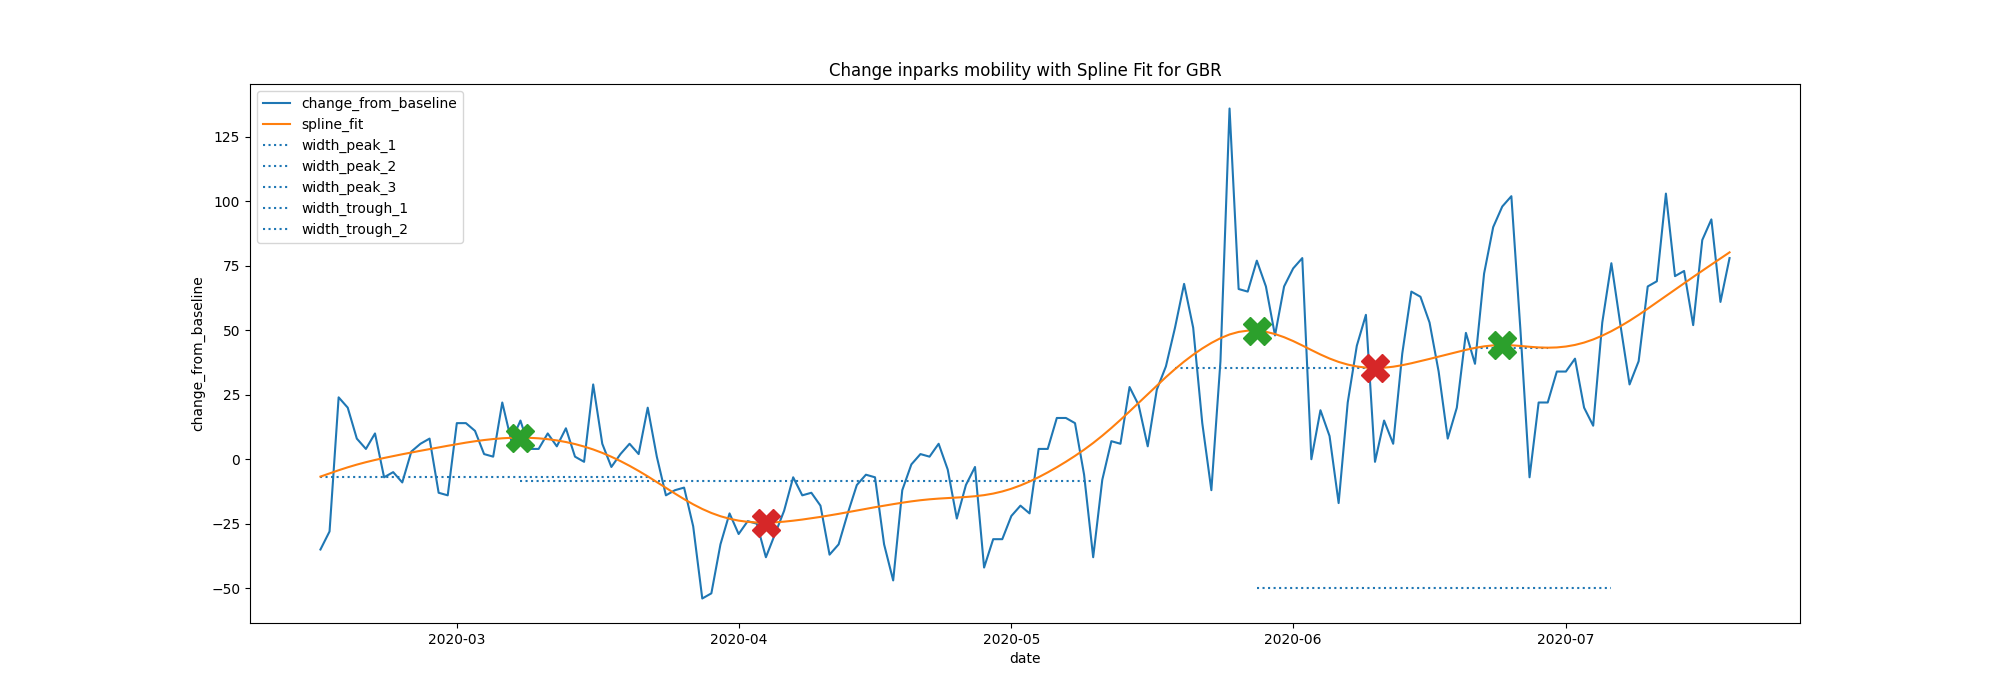
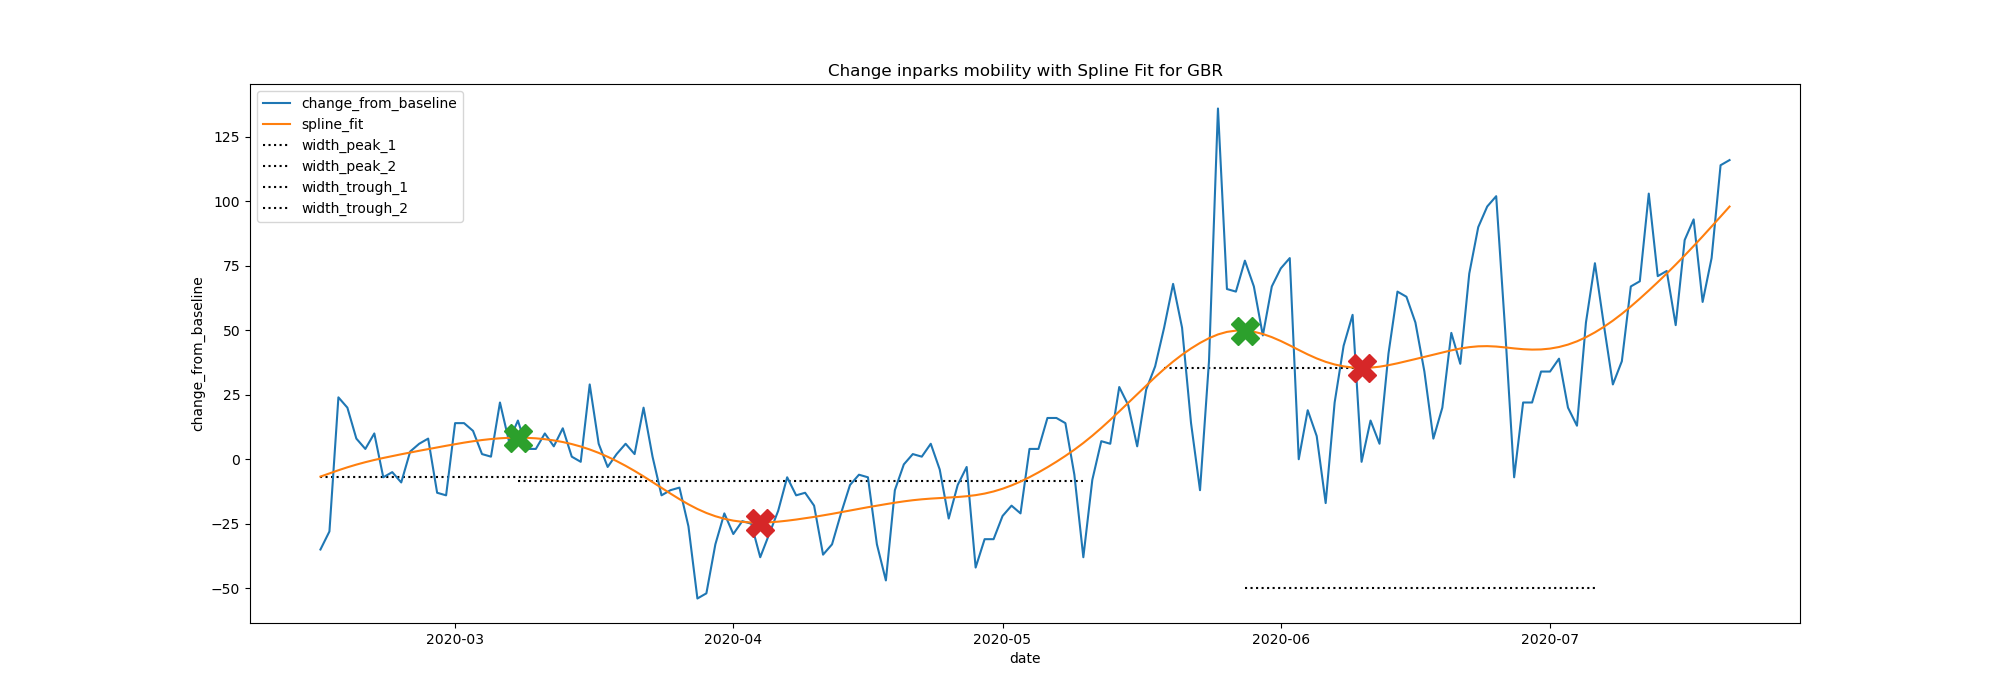
fixed some bugs in generate_table.py

diff --git a/generate_table.py b/generate_table.py
@@ -14,7 +14,6 @@ from scipy.signal import find_peaks
 from scipy.signal import peak_widths
 from scipy.signal import peak_prominences
 
-import statsmodels.api as sm
 from scipy.ndimage.interpolation import shift
 import statsmodels.api as sm
 warnings.filterwarnings('ignore')
@@ -23,7 +22,7 @@ warnings.filterwarnings('ignore')
 INTITALISE SCRIPT PARAMETERS
 '''
 
-SAVE_PLOTS=False
+SAVE_PLOTS=True
 DISTANCE = 21  # Distance between peaks
 THRESHOLD = 25  # Threshold for duration calculation
 SMOOTH = 0.001  # Smoothing parameter for the spline fit
@@ -31,6 +30,7 @@ MIN_PERIOD = 14  # Minimum number of days above threshold
 ROLLING_WINDOW = 3  # Window size for Moving Average for epidemiological data
 OPTIMAL_LAG_TIME = 14 # +/- this time for optimal lag calculation
 PATH = './charts/table_figures/' # Path to save master table and corresponding plots
+PROMINENCE_THRESHOLD = 5
 
 conn = psycopg2.connect(
     host='covid19db.org',
@@ -50,7 +50,7 @@ raw_epidemiology = raw_epidemiology[raw_epidemiology['adm_area_1'].isnull()].sor
 raw_epidemiology = raw_epidemiology[~raw_epidemiology['country'].isin(exclude)].reset_index(drop=True)
 raw_epidemiology = raw_epidemiology[['countrycode','country','date','confirmed']]
 ### Check no conflicting values for each country and date
-assert not raw_epidemiology[['countrycode','country','date']].duplicated().any()
+assert not raw_epidemiology[['countrycode','date']].duplicated().any()
 
 # GET MOBILITY TABLE
 source='GOOGLE_MOBILITY'
@@ -61,7 +61,7 @@ raw_mobility = pd.read_sql(sql_command, conn, params={'source': source})
 raw_mobility = raw_mobility[['countrycode','country','date']+mobilities]
 raw_mobility = raw_mobility.sort_values(by=['countrycode','date']).reset_index(drop=True)
 ### Check no conflicting values for each country and date
-assert not raw_mobility[['countrycode','country','date']].duplicated().any()
+assert not raw_mobility[['countrycode','date']].duplicated().any()
 
 # GET GOVERNMENT RESPONSE TABLE
 flags=['stringency_index','c1_school_closing','c2_workplace_closing','c3_cancel_public_events',
@@ -72,8 +72,11 @@ sql_command = """SELECT * FROM government_response"""
 raw_government_response = pd.read_sql(sql_command, conn)
 raw_government_response = raw_government_response.sort_values(by=['countrycode','date']).reset_index(drop=True)
 raw_government_response = raw_government_response[['countrycode','country','date']+flags]
+raw_government_response = raw_government_response.sort_values(by=['country','date'])\
+    .drop_duplicates(subset=['countrycode','date'])#.dropna(subset=['stringency_index'])
+raw_government_response = raw_government_response.sort_values(by=['countrycode','date'])
 ### Check no conflicting values for each country and date
-assert not raw_government_response[['countrycode','country','date']].duplicated().any()
+assert not raw_government_response[['countrycode','date']].duplicated().any()
 
 
 '''
@@ -249,7 +252,7 @@ for country in tqdm(countries, desc = 'Processing Epidemiological Data'):
     ys = csaps(x, y, x, smooth = SMOOTH)
 
     ###Finding peaks
-    peak_locations = find_peaks(ys,distance=DISTANCE)[0]
+    peak_locations = find_peaks(ys,distance=DISTANCE, prominence=PROMINENCE_THRESHOLD)[0]
     peak_mask = np.zeros(len(data['date']))
     for i in range(len(peak_locations)):
         peak_mask[peak_locations[i]] = i + 1
@@ -373,8 +376,8 @@ for country in tqdm(countries, desc = 'Processing Mobility Data'):
         y = data[mobility_type].values
         ys = csaps(x, y, x, smooth=SMOOTH)
 
-        peak_locations = find_peaks(ys,distance=DISTANCE)[0]
-        trough_locations = find_peaks(-ys,distance=DISTANCE)[0]
+        peak_locations = find_peaks(ys,distance=DISTANCE, prominence=PROMINENCE_THRESHOLD)[0]
+        trough_locations = find_peaks(-ys,distance=DISTANCE, prominence=PROMINENCE_THRESHOLD)[0]
         peak_mask = np.zeros(len(data['date']))
         trough_mask = np.zeros(len(data['date']))
         peak_heights_mask = np.zeros(len(data['date']))
@@ -484,7 +487,7 @@ for country in tqdm(countries, desc = 'Processing Government Response Data'):
         government_response_columns['max_si_days_from_t0'],
         np.array([max_si_days_from_t0])))
     
-    peak_locations = find_peaks(data['stringency_index'].values, distance = DISTANCE)[0]
+    peak_locations = find_peaks(data['stringency_index'].values,distance = DISTANCE,prominence=PROMINENCE_THRESHOLD)[0]
     multiple_peaks = len(peak_locations) > 1
     government_response_columns['multiple_peaks'] = np.concatenate((
         government_response_columns['multiple_peaks'],np.array([multiple_peaks]))).astype(bool)
@@ -609,12 +612,14 @@ for country in tqdm(countries, desc = 'Processing Government Response Data'):
         plt.plot(data['date'].values, data['stringency_index'].values, label = 'stringency_index')
         plt.plot([data['date'].values[i] for i in peak_locations], [data['stringency_index'].values[i]
                                                                     for i in peak_locations], "X", ms=20)
+        """
         t = government_response_results.loc[government_response_results["countrycode"]==country,"high_restrictions_start_date"].values[0]
         if not pd.isna(t):
             try:
                 plt.plot(t,data.loc[data["date"]==t,'stringency_index'].values[0], "X", ms=20, color='green')
             except IndexError:
                 pass
+        """
         for percentile in percentiles:
             plt.hlines(y = percentile, xmin = data['date'].values[0], xmax = data['date'].values[-1],
                        linestyles='dashed', label = str(percentile), colors = 'red')
@@ -832,7 +837,8 @@ INTERACTIONS BETWEEN EPI, GOV AND MOB
 '''
 ## EPI_GOV: DISTANCE BETWEEN PEAK OF EPIDEMIOLOGY AND START/END DATES OF MAX STRINGECY INDEX
 for i in FINAL.index:
-    j = np.argmax([FINAL.loc[i,"EPI_PEAK_"+str(n)+"_VALUE"] for n in range(1,int(epidemiology_results['peak_dates'].max())+1)])
+    j = np.argmax([FINAL.loc[i,"EPI_PEAK_"+str(n)+"_VALUE"]
+                   for n in range(1,int(epidemiology_results['peak_dates'].max())+1)])
     if j > 0:
         date1 = FINAL.loc[i,"EPI_PEAK_" + str(j) + "_DATE"]
         date2 = FINAL.loc[i,"GOV_MAX_SI_START_DATE"]
@@ -842,7 +848,8 @@ for i in FINAL.index:
 
 ## GOV_MOB: DIFFERENCE BETWEEN START DATE OF SI PEAK AND PEAK OF RESIDENTIAL MOBILITY
 for i in FINAL.index:
-    j = np.argmax([FINAL.loc[i,"MOB_RESIDENTIAL_PEAK_"+str(n)+"_VALUE"] for n in range(1,int(mobility_results['residential_peak_dates'].max())+1)])
+    j = np.argmax([FINAL.loc[i,"MOB_RESIDENTIAL_PEAK_"+str(n)+"_VALUE"]
+                   for n in range(1,int(mobility_results['residential_peak_dates'].max())+1)])
     if j > 0:
         date1 = FINAL.loc[i,"GOV_MAX_SI_START_DATE"]
         date2 = FINAL.loc[i,"MOB_RESIDENTIAL_PEAK_" + str(j) + "_DATE"]
@@ -850,8 +857,10 @@ for i in FINAL.index:
 
 ## EPI_MOB: DIFFERENCE BETWEEN PEAK DATE OF EPI AND PEAK DATE IN MOBILITY
 for i in FINAL.index:
-    j = np.argmax([FINAL.loc[i,"EPI_PEAK_"+str(n)+"_VALUE"] for n in range(1,int(epidemiology_results['peak_dates'].max())+1)])
-    k = np.argmax([FINAL.loc[i,"MOB_RESIDENTIAL_PEAK_"+str(n)+"_VALUE"] for n in range(1,int(mobility_results['residential_peak_dates'].max())+1)])
+    j = np.argmax([FINAL.loc[i,"EPI_PEAK_"+str(n)+"_VALUE"]
+                   for n in range(1,int(epidemiology_results['peak_dates'].max())+1)])
+    k = np.argmax([FINAL.loc[i,"MOB_RESIDENTIAL_PEAK_"+str(n)+"_VALUE"]
+                   for n in range(1,int(mobility_results['residential_peak_dates'].max())+1)])
     if (j > 0) & (k > 0):
         date1 = FINAL.loc[i,"EPI_PEAK_"+str(j)+"_DATE"]
         date2 = FINAL.loc[i,"MOB_RESIDENTIAL_PEAK_" + str(k) + "_DATE"]
